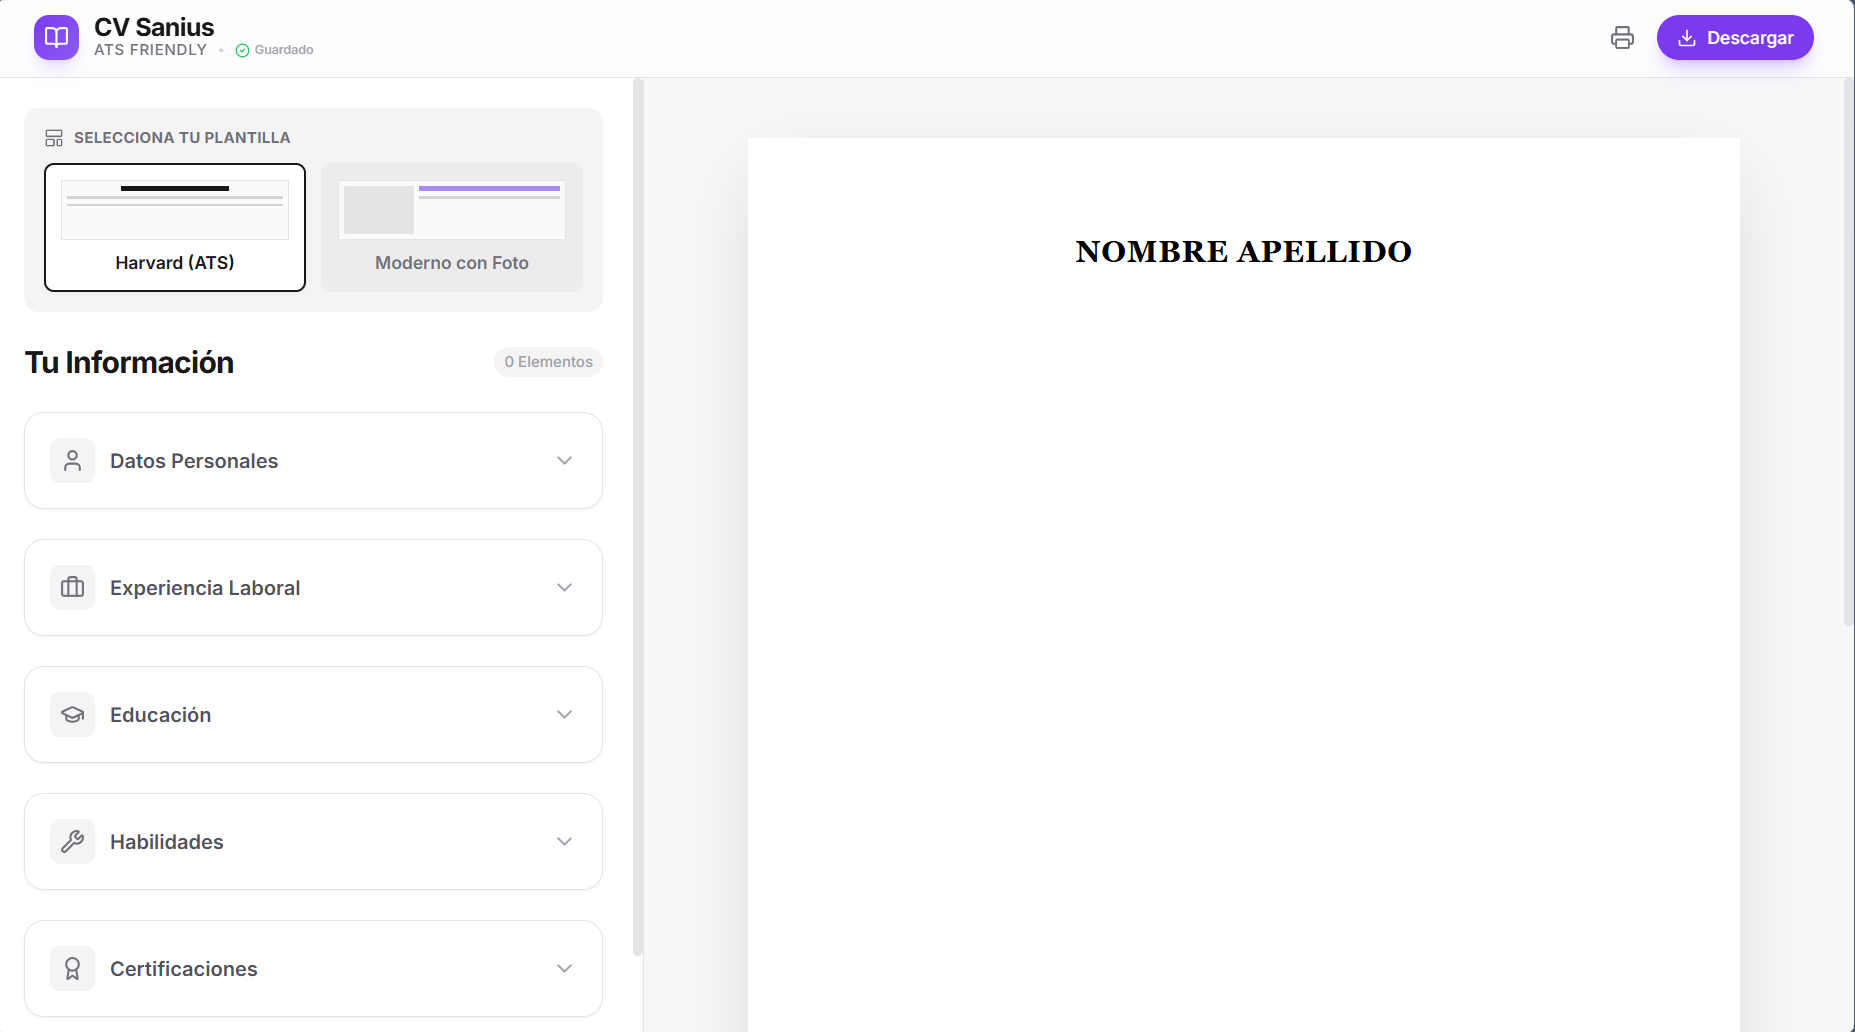
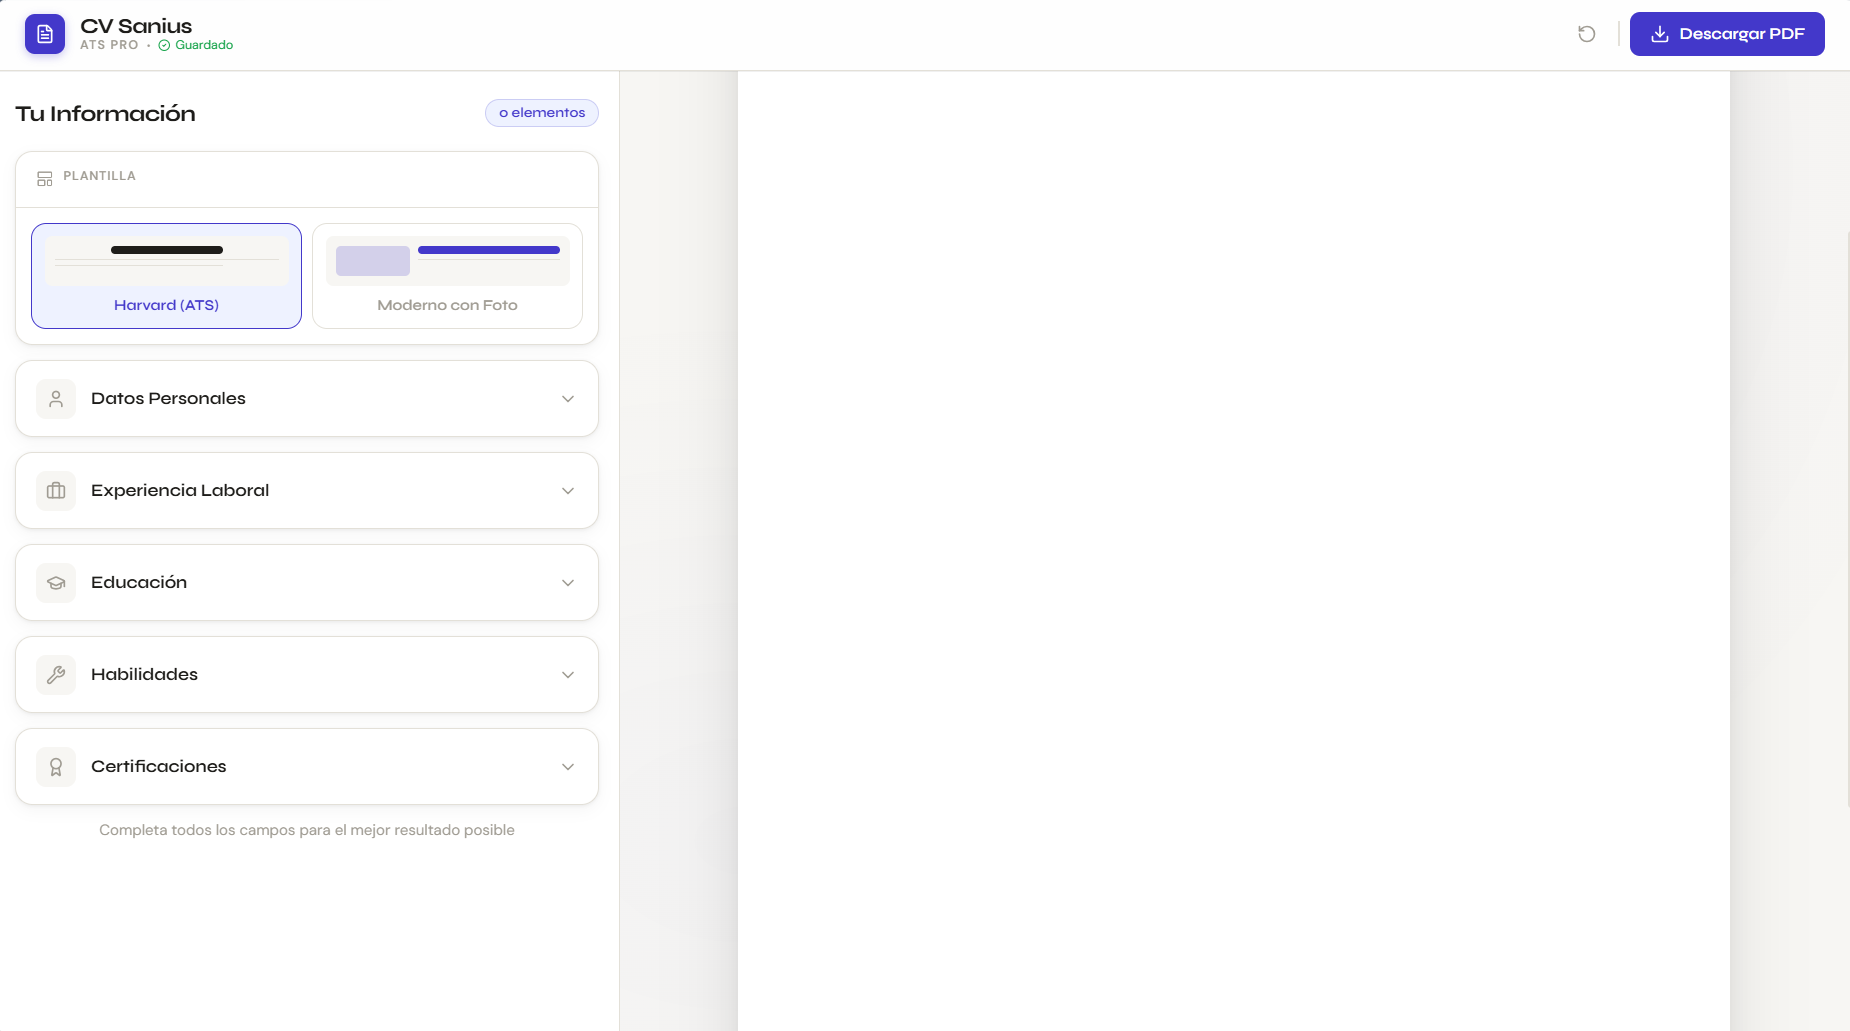
Subiendo el assest

diff --git a/data/projects.ts b/data/projects.ts
@@ -13,6 +13,8 @@ import LiriAI from "../assets/LiriAI.png"
 import Workshop from "../assets/Workshop.png"
 import Kairos from "../assets/Kairos.png"
 import BackCodeJourney from "../assets/BackCodeJourney.png"
+import CVMatch from "../assets/Cvmatch.png"
+import Vilfit from "../assets/Vilfit.png"
 
 
 export type ProjectCategory = "fullstack" | "frontend" | "backend"
@@ -40,7 +42,7 @@ export const personalProjects: Project[] = [
     id: 1,
     name: "Vilfit",
     technologies: ["Nextjs", "TypeScript", "TailwindCSS", "Authjs", "PostgreSQL", "Neon", "Shadcnui", "DrizzleORM"],
-    image: Portfolio1,
+    image: Vilfit,
     description:
       "Marketplace de empleo para Latinoamérica que usa IA para eliminar el filtrado manual de CVs. Los reclutadores reciben un ranking automático de candidatos con score de compatibilidad, mientras los candidatos se postulan subiendo su CV.",
     github: "https://github.com/Vilduis/Vilfit",
@@ -51,7 +53,7 @@ export const personalProjects: Project[] = [
     id: 2,
     name: "CVMatch",
     technologies: ["Nextjs", "TypeScript", "TailwindCSS", "Authjs", "PostgreSQL", "Neon", "Shadcnui", "DrizzleORM"],
-    image: Portfolio1,
+    image: CVMatch,
     description:
       "Plataforma que analiza la compatibilidad entre un CV y una oferta laboral usando IA. Genera en segundos un puntaje de match, fortalezas, brechas y sugerencias de mejora, con preguntas probables de entrevista si el match supera el 70%.",
     github: "https://github.com/Vilduis/CVMatch",
